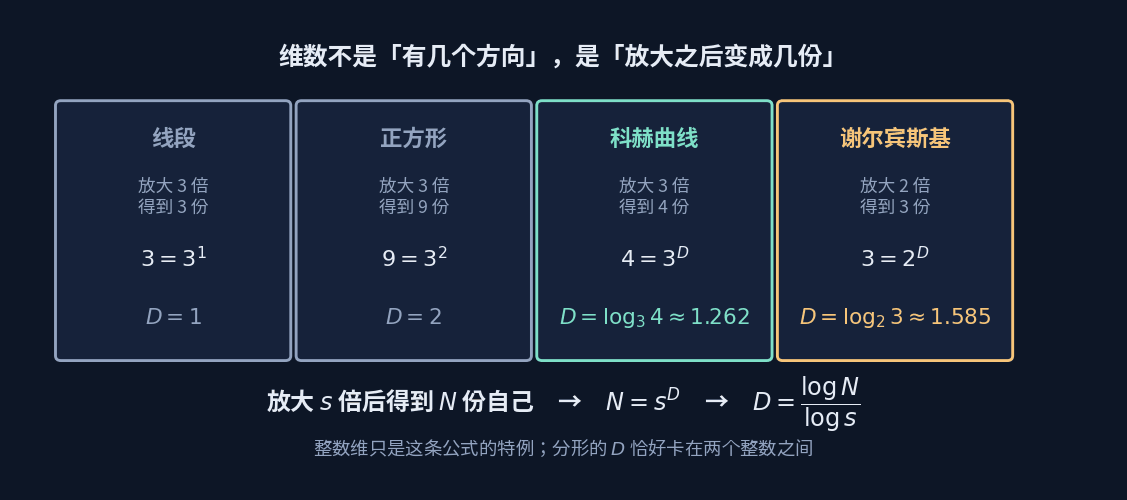
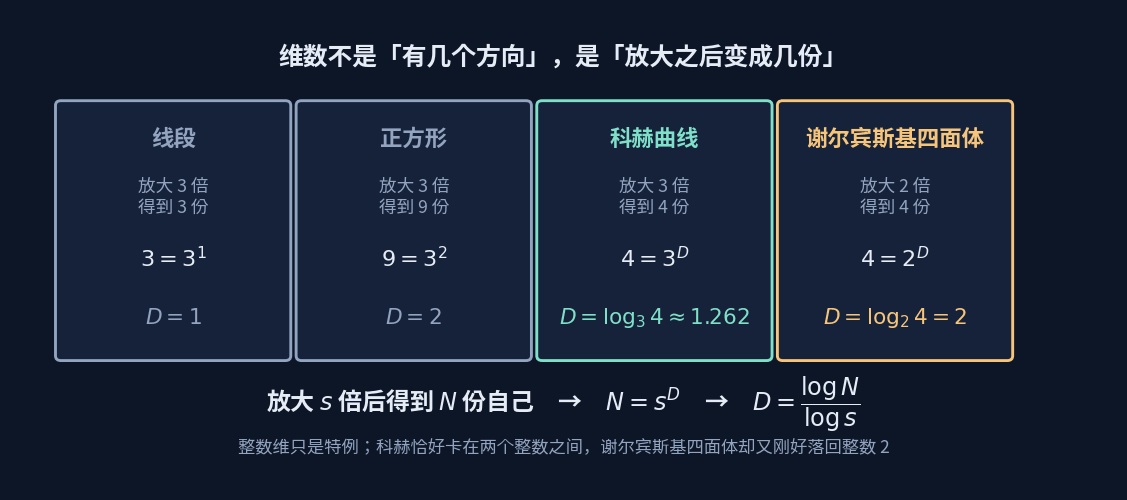
xffx

diff --git a/fractals.html b/fractals.html
@@ -92,15 +92,21 @@
 
 						<header class="major">
 							<h1>分形与维数</h1>
-							<p>Fractals &amp; Dimension<br/>
-							<p>一条线是一维，一张纸是二维。那么，窗花是几维？</p>
+							<p>Fractals &amp; Dimension<br />
+							一条线是一维，一张纸是二维。那么，一条无限曲折、却始终画在纸上的线，是几维？</p>
 						</header>
 
-						<span class="image main"><img src="images/frac_hero.png" alt="科赫雪花的每个凸起顶点上生长出谢尔宾斯基三角形" /></span>
+						<span class="image main"><img src="images/frac_hero.jpg" alt="海岸线状的科赫曲线，远处是镂空的谢尔宾斯基四面体" /></span>
 
-						<p>上面这张图里其实有两个分形：海岸线的外轮廓是<strong>科赫曲线</strong>，
-						远处镂空的金字塔是<strong>谢尔宾斯基正四面体</strong>。
-						它们的维数分别是 $1.2619$ 和 $1.6309$，它们都不是整数。</p>
+						<p>上面这张图里其实有两个分形：海岸线状的曲折外轮廓是<strong>科赫曲线</strong>，
+						远处镂空的金字塔是<strong>谢尔宾斯基四面体</strong>——
+						每次把四面体分成四个角上的小四面体，中间挖空，无限重复。</p>
+
+						<p>它们的维数分别是 $1.262$ 和 $2$。科赫曲线卡在一维和二维之间；
+						谢尔宾斯基四面体反而是个例外——虽然被挖得千疮百孔、体积趋于零，
+						它的自相似维数算出来却<strong>恰好落回整数 2</strong>。
+						这两件事一起说明：维数不是"看起来复杂就一定是分数"，
+						得老老实实按公式算。</p>
 
 						<hr class="major" />
 
@@ -132,8 +138,10 @@
 						<div class="demos" style="grid-template-columns:1fr">
 							<a class="demo" href="demo-fractal.html" target="_blank" rel="noopener">
 								<span class="tag">Core</span>
-								<strong>混合分形：科赫 × 谢尔宾斯基</strong>
-								<span class="d">两个滑块分别控制两种分形的递归层数，能看着海龟一笔一笔画出来，
+								<strong>混合分形：科赫 × 谢尔宾斯基三角形</strong>
+								<span class="d">这个演示里配的是谢尔宾斯基<strong>三角形</strong>版本（维数 $\log_2 3\approx1.585$），
+								和上面封面图里的四面体不是同一个构造，但原理一样：
+								两个滑块分别控制两种分形的递归层数，能看着海龟一笔一笔画出来，
 								也能直接跳到结果。层数每加一，图元数量乘几倍——递归的代价在这里看得见。</span>
 								<span class="go">打开演示 →</span>
 							</a>
